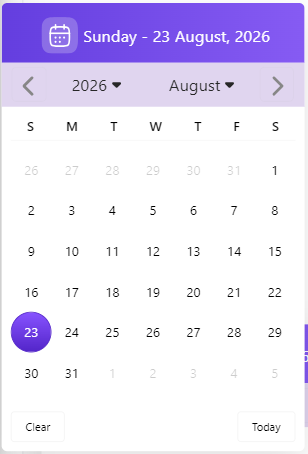
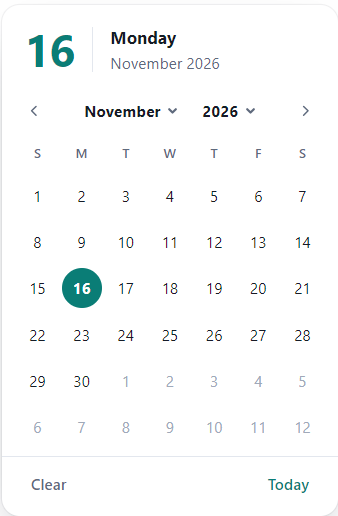
fixed change time picker ui

diff --git a/projects/libs/time-picker/components/time-picker/time-picker.scss b/projects/libs/time-picker/components/time-picker/time-picker.scss
@@ -1,8 +1,13 @@
 :host {
-  --ngx-time-picker-clock-bg: light-dark(#f8f8f8, #181818);
-  --ngx-time-picker-header-bg: #6200ee;
-  --ngx-time-picker-header-fg: #fff;
-  --ngx-clock-bg: light-dark(#e8e8e8, #35363c);
+  --_surface: var(--ngx-dp-surface, light-dark(#ffffff, #171b24));
+  --_surface-2: var(--ngx-dp-surface-2, light-dark(#f5f7fa, #1e2430));
+  --_line: var(--ngx-dp-line, light-dark(#e3e7ee, #2a3142));
+  --_accent: var(--ngx-dp-accent, light-dark(#0a7d76, #3fd0c3));
+  --_accent-ink: var(--ngx-dp-accent-ink, light-dark(#ffffff, #052321));
+  --_accent-soft: var(--ngx-dp-accent-soft, light-dark(#dff3f1, #163640));
+  --_hover: var(--ngx-dp-hover, light-dark(#edf0f5, #252c3c));
+  --_ink: var(--ngx-dp-ink, light-dark(#161b27, #e8ecf4));
+  --_muted: var(--ngx-dp-muted, light-dark(#5f6a7d, #9aa4b8));
   display: inline-block;
 }
 
@@ -14,49 +19,47 @@
   direction: ltr;
   user-select: none;
   -webkit-user-select: none;
-
+  background: var(--_surface);
   border: 1px #86868659 solid;
-  box-shadow: 0 0 20px #7a7a7a21;
+  box-shadow:
+    0 0 0 1px light-dark(rgb(16 24 40 / 6%), rgb(255 255 255 / 7%)),
+    0 24px 48px -18px rgb(10 20 40 / 38%);
 }
 
 .ngx-time-picker__header {
   display: flex;
   align-items: center;
-  justify-content: center;
-
+  gap: 10px;
   height: 82px;
-
-  background: var(--ngx-time-picker-header-bg,);
-  color: var(--ngx-time-picker-header-fg);
+  padding: 0 10px;
 }
-
+.ngx-time-picker__header_icon {
+  border-inline-end: 1px solid light-dark(#e3e7ee, #2a3142);
+  color: var(--_accent);
+  font-size: 1em;
+  width: 53px;
+  display: flex;
+  align-items: center;
+  justify-content: center;
+  padding: 8px;
+}
 .ngx-time-picker__value {
   border: 0;
   padding: 0;
-
   background: transparent;
-  color: rgba(255, 255, 255, 0.55);
-
   font-size: 48px;
   line-height: 1;
-
   font-weight: 400;
-
   cursor: pointer;
-
   transition:
     color 160ms ease,
     opacity 160ms ease;
-
+  font-family: system-ui, sans-serif;
   font-variant-numeric: tabular-nums;
 }
 
-.ngx-time-picker__value:hover {
-  color: rgba(255, 255, 255, 0.8);
-}
-
 .ngx-time-picker__value.active {
-  color: #fff;
+  color: var(--_accent);
 }
 
 .ngx-time-picker__value:disabled {
@@ -65,21 +68,16 @@
 
 .ngx-time-picker__separator {
   margin-inline: 4px;
-
   font-size: 44px;
   line-height: 1;
-
-  color: #fff;
 }
 
 .ngx-time-picker__clock-wrapper {
   display: flex;
   align-items: center;
   justify-content: center;
-
   padding: 20px;
-
-  background: var(--ngx-time-picker-clock-bg);
+  background: var(--_surface);
 }
 
 .ngx-time-picker__clock {
@@ -94,11 +92,11 @@
 }
 
 .clock-background {
-  fill: var(--ngx-clock-bg);
+  fill: var(--_surface-2);
 }
 
 .clock-hand {
-  stroke: #1976d2;
+  stroke: var(--_accent);
   stroke-width: 2;
   stroke-linecap: round;
 
@@ -106,13 +104,13 @@
 }
 
 .clock-center {
-  fill: #1976d2;
+  fill: var(--_accent);
 
   pointer-events: none;
 }
 
 .clock-selected {
-  fill: #1976d2;
+  fill: var(--_accent);
 
   pointer-events: none;
 }
@@ -159,23 +157,42 @@
 
 .ngx-time-picker--footer {
   display: flex;
-  justify-content: flex-end;
-  gap: 5px;
-  padding: 5px 10px 5px;
-  background: var(--ngx-time-picker-clock-bg);
-  button {
-    outline: none;
+  justify-content: space-between;
+  gap: 8px;
+  padding: 8px 12px 12px;
+  border-top: 1px solid var(--_line);
+
+  .action {
+    appearance: none;
+    border: 0;
     background: none;
     color: inherit;
-    border: none;
-    border-radius: 4px;
-    padding: 8px 15px;
-    box-shadow: none;
-    transition: all 300ms;
+    font: inherit;
+    padding: 0;
+    margin: 0;
+    cursor: pointer;
+    padding: 7px 14px;
+    border-radius: 999px;
+    font-weight: 600;
+    color: var(--_muted);
+    transition:
+      background 140ms ease,
+      color 140ms ease;
 
     &:not([disabled]):hover {
-      cursor: pointer;
-      background: #816ef175;
+      background: var(--_hover);
+      color: var(--_ink);
+    }
+    &.primary {
+      color: var(--_accent);
+      margin-inline-start: auto;
+      &:not([disabled]):hover {
+        background: var(--_accent-soft);
+        color: var(--_accent);
+      }
+    }
+    &[disabled] {
+      opacity: 0.4;
     }
   }
 }

diff --git a/projects/libs/date-picker/components/ngx-date-picker-base.component.ts b/projects/libs/date-picker/components/ngx-date-picker-base.component.ts
@@ -46,7 +46,7 @@ export abstract class NgxDatePickerBase {
   readonly locale = input<string>(this._config.locale ?? 'en');
 
   /** `light`, `dark` or `auto` (follows the page / OS colour scheme). */
-  readonly theme = input<NgxDateTheme>(this._config.theme ?? 'auto');
+  readonly theme = input<NgxDateTheme | ''>(this._config.theme ?? '');
 
   /** Optional overrides of the built-in labels (merged over the config labels). */
   readonly localize = input<Partial<NgxCalendarLocalization> | null | undefined>(null);
@@ -55,11 +55,7 @@ export abstract class NgxDatePickerBase {
 
   /** Final labels: defaults < config.localization < `localize` input. */
   readonly labels = computed<NgxCalendarLocalization>(() =>
-    Object.assign(
-      new NgxCalendarLocalization(),
-      this.config().localization,
-      this.localize() ?? {},
-    ),
+    Object.assign(new NgxCalendarLocalization(), this.config().localization, this.localize() ?? {}),
   );
 
   protected dateAdapterRegistry = inject(DateAdapterRegistry);
@@ -367,10 +363,11 @@ export abstract class NgxDatePickerBase {
       this.viewDays.push({
         day,
         outside,
-        label: this.adapter.formatDate(
-          { locale: this.locale(), year: y, month: m, day, dayOfWeek: column },
-          'EEEE d MMMM yyyy',
-        ) ?? '',
+        label:
+          this.adapter.formatDate(
+            { locale: this.locale(), year: y, month: m, day, dayOfWeek: column },
+            'EEEE d MMMM yyyy',
+          ) ?? '',
         active: this.checkActiveDate(date),
         isToday: sameDate(date, todayDate),
         selected: !!selectedDate && sameDate(date, selectedDate),

diff --git a/projects/libs/time-picker/components/time-picker/time-picker.html b/projects/libs/time-picker/components/time-picker/time-picker.html
@@ -1,6 +1,18 @@
 <div class="ngx-time-picker" [class.ngx-time-picker--disabled]="disabled()">
   <!-- Header -->
   <div class="ngx-time-picker__header">
+    <span class="ngx-time-picker__header_icon">
+      <svg viewBox="0 0 24 24" fill="none" xmlns="http://www.w3.org/2000/svg">
+        <circle cx="12" cy="12" r="10" stroke="currentColor" stroke-width="1.5" />
+        <path
+          d="M9.5 9.5L12.9999 12.9996M16 8L11 13"
+          stroke="currentColor"
+          stroke-width="1.5"
+          stroke-linecap="round"
+          stroke-linejoin="round" />
+      </svg>
+    </span>
+
     <button
       type="button"
       class="ngx-time-picker__value"
@@ -112,11 +124,11 @@
     </svg>
   </div>
   <div class="ngx-time-picker--footer">
-    <button (click)="close()">
+    <button (click)="close()" class="action">
       {{ config.cancelButtonText }}
     </button>
 
-    <button (click)="ok()">
+    <button (click)="ok()" class="action primary">
       {{ config.confirmButtonText }}
     </button>
   </div>

diff --git a/projects/libs/date-picker/tokens/config.ts b/projects/libs/date-picker/tokens/config.ts
@@ -1,7 +1,8 @@
 import { InjectionToken, TemplateRef } from '@angular/core';
 import type { DateAdapterRegistration } from '../adapters/consts';
 
-export type NgxDateTheme = 'light' | 'dark' | 'auto';
+/** '' is inherits from site */
+export type NgxDateTheme = 'light' | 'dark' | 'auto' | '';
 
 export class NgxCalendarLocalization {
   clear = 'Clear';
@@ -39,7 +40,7 @@ export class NgxDateConfig {
   clearButton?: boolean = true;
 
   locale?: string = 'en';
-  theme?: NgxDateTheme = 'auto';
+  theme?: NgxDateTheme = '';
 
   adapters?: DateAdapterRegistration[];
 }

diff --git a/projects/libs/core/overlay/overlay.service.ts b/projects/libs/core/overlay/overlay.service.ts
@@ -340,7 +340,7 @@ export class OverlayService {
     element.style.overflow = 'auto';
     element.style.transformOrigin = 'left top';
     element.style.background = 'none';
-    element.style.filter = 'drop-shadow(0px 0px 6px black)';
+    element.style.filter = 'drop-shadow(0px 0px 6px rgba(0,0,0,.3))';
     element.style.borderRadius = 'var(--ngx-dialog-corner-radius,8px)';
     this.addClasses(element, options.panelClass);
     return element;

diff --git a/projects/libs/data-table/components/table/table.scss b/projects/libs/data-table/components/table/table.scss
@@ -209,10 +209,6 @@
 
 /* --------------------------------------------------------------- کارت موبایل*/
 @media (max-width: 768px) {
-  .ngx-table-scroll {
-    overflow: visible;
-    max-height: none;
-  }
   .ngx-table {
     width: 100%;
   }

diff --git a/projects/libs/date-picker/styles/_picker.scss b/projects/libs/date-picker/styles/_picker.scss
@@ -40,7 +40,7 @@
   );
 
   display: inline-block;
-  color-scheme: light dark;
+  // color-scheme: light dark;
   font-size: var(--ngx-dp-font-size, 14px);
   line-height: 1.4;
   -webkit-tap-highlight-color: transparent;

diff --git a/projects/demo/src/app/shared/showcase/example-showcase.component.scss b/projects/demo/src/app/shared/showcase/example-showcase.component.scss
@@ -3,6 +3,7 @@
   height: 100%;
   grid-template-rows: auto minmax(0, 1fr);
   // grid-template-rows: 60px minmax(0, 1fr);
+  padding: 10px;
 }
 .showcase {
   border: 1px solid light-dark(#e5e7eb, #33333a);

diff --git a/projects/demo/src/styles.scss b/projects/demo/src/styles.scss
@@ -1,5 +1,3 @@
-@use './scss/material.scss';
-
 html {
   color-scheme: light;
 
@@ -62,6 +60,8 @@ html,
 body {
   width: 100%;
   height: 100%;
+  margin: 0;
+  padding: 0;
 }
 
 button,
